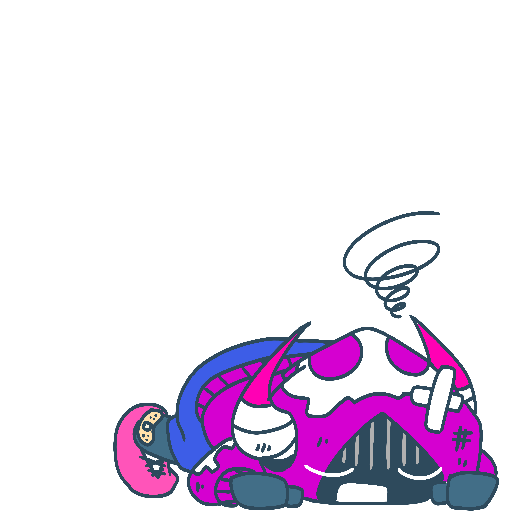
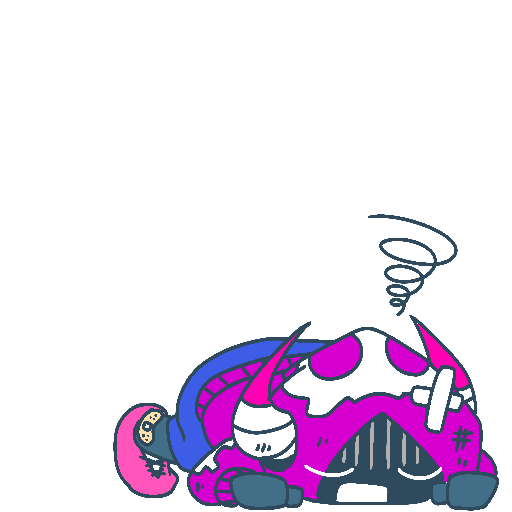
通常時のアニメーションを設定してスプライトを等間隔で切り替える処理を修正

Changed region(s): [[0.6562, 0.4062, 0.9062, 0.625]]

diff --git a/src/chara.ts b/src/chara.ts
@@ -1,9 +1,14 @@
 import * as THREE from "three";
 import { getGameState, rootClock, scene } from "./main";
 
+type CharaState = "normal" | "swing" | "gameOver";
+
+export let charaState: CharaState = "normal";
+
 export const charaPos = new THREE.Vector3(8.5, 0.5, 0);
 
 const normalTexture = new THREE.TextureLoader().load("chara/normal.png");
+const normal2Texture = new THREE.TextureLoader().load("chara/normal2.png");
 const hitTexture = new THREE.TextureLoader().load("chara/hit.png");
 const overTexture = new THREE.TextureLoader().load("chara/over.png");
 const over2Texture = new THREE.TextureLoader().load("chara/over2.png");
@@ -14,10 +19,15 @@ const normalMaterial = new THREE.SpriteMaterial({
   color: spriteMaterialColor,
   transparent: true,
   alphaTest: 0.5,
-
   fog: false,
 });
-
+const normal2Material = new THREE.SpriteMaterial({
+  map: normal2Texture,
+  color: spriteMaterialColor,
+  transparent: true,
+  alphaTest: 0.5,
+  fog: false,
+});
 const hitMaterial = new THREE.SpriteMaterial({
   map: hitTexture,
   color: spriteMaterialColor,
@@ -49,50 +59,79 @@ let spriteChangeStack = 0;
 export const addChara = () => {
   sprite.position.set(charaPos.x, charaPos.y, charaPos.z);
   scene.add(sprite);
+  charaNormal();
+};
+
+export const isLockedSpriteAmongSwing = false;
+
+export const charaNormal = () => {
+  const changeSpan = 1;
+  const timeTriggered = rootClock.getElapsedTime();
+  let timeChanged = timeTriggered;
+  let isSpriteTwo = false;
+  sprite.material = normalMaterial;
+  charaState = "normal";
+
+  const spriteChange = () => {
+    console.log();
+    if (charaState === "normal") {
+      requestAnimationFrame(spriteChange);
+
+      if (rootClock.getElapsedTime() - timeChanged > changeSpan) {
+        timeChanged = rootClock.getElapsedTime();
+        if (isSpriteTwo) {
+          isSpriteTwo = false;
+          sprite.material = normalMaterial;
+        } else {
+          isSpriteTwo = true;
+          sprite.material = normal2Material;
+        }
+      }
+    }
+  };
+
+  spriteChange();
 };
 
 export const charaSwing = () => {
   sprite.material = hitMaterial;
   spriteChangeStack += 1;
+  charaState = "swing";
 
   setTimeout(() => {
     spriteChangeStack -= 1;
     if (spriteChangeStack < 1) {
       if (getGameState() !== "playing") return;
 
-      sprite.material = normalMaterial;
+      charaNormal();
     }
   }, 300);
 };
 
-const gameOverSpriteChangeTime = 0.04;
-let gameOverSpriteChangeClock = 0;
-let isGameOverSpriteTwo = false;
-
 export const charaGameOver = () => {
+  const changeSpan = 1;
+  const timeTriggered = rootClock.getElapsedTime();
+  let timeChanged = timeTriggered;
+  let isSpriteTwo = false;
   sprite.material = overMaterial;
+  charaState = "gameOver";
 
-  charaGameOverSpriteChange();
-};
+  const spriteChange = () => {
+    if (charaState === "gameOver") {
+      requestAnimationFrame(spriteChange);
 
-const charaGameOverSpriteChange = () => {
-  const animation = requestAnimationFrame(charaGameOverSpriteChange);
-
-  gameOverSpriteChangeClock += rootClock.getDelta();
-  if (gameOverSpriteChangeClock > gameOverSpriteChangeTime) {
-    gameOverSpriteChangeClock = 0;
-    if (isGameOverSpriteTwo) {
-      sprite.material = overMaterial;
-      isGameOverSpriteTwo = false;
-    } else {
-      sprite.material = over2Material;
-      isGameOverSpriteTwo = true;
+      if (rootClock.getElapsedTime() - timeChanged > changeSpan) {
+        timeChanged = rootClock.getElapsedTime();
+        if (isSpriteTwo) {
+          isSpriteTwo = false;
+          sprite.material = overMaterial;
+        } else {
+          isSpriteTwo = true;
+          sprite.material = over2Material;
+        }
+      }
     }
-  }
+  };
 
-  if (getGameState() !== "result") cancelAnimationFrame(animation);
-};
-
-export const charaReset = () => {
-  sprite.material = normalMaterial;
+  spriteChange();
 };

diff --git a/src/result.ts b/src/result.ts
@@ -8,7 +8,7 @@ import {
   resetScore,
   setScoreText,
 } from "./ui";
-import { charaGameOver, charaPos, charaReset } from "./chara";
+import { charaGameOver, charaPos, charaNormal } from "./chara";
 import { clamp } from "three/src/math/MathUtils.js";
 import { easeOutSine } from "./utils";
 import { countDown } from "./countdown";
@@ -45,7 +45,7 @@ export const retry = () => {
   resetScore();
   countDown();
   setLastHitTime(0);
-  charaReset();
+  charaNormal();
 };
 
 const cameraMoveResult = () => {
